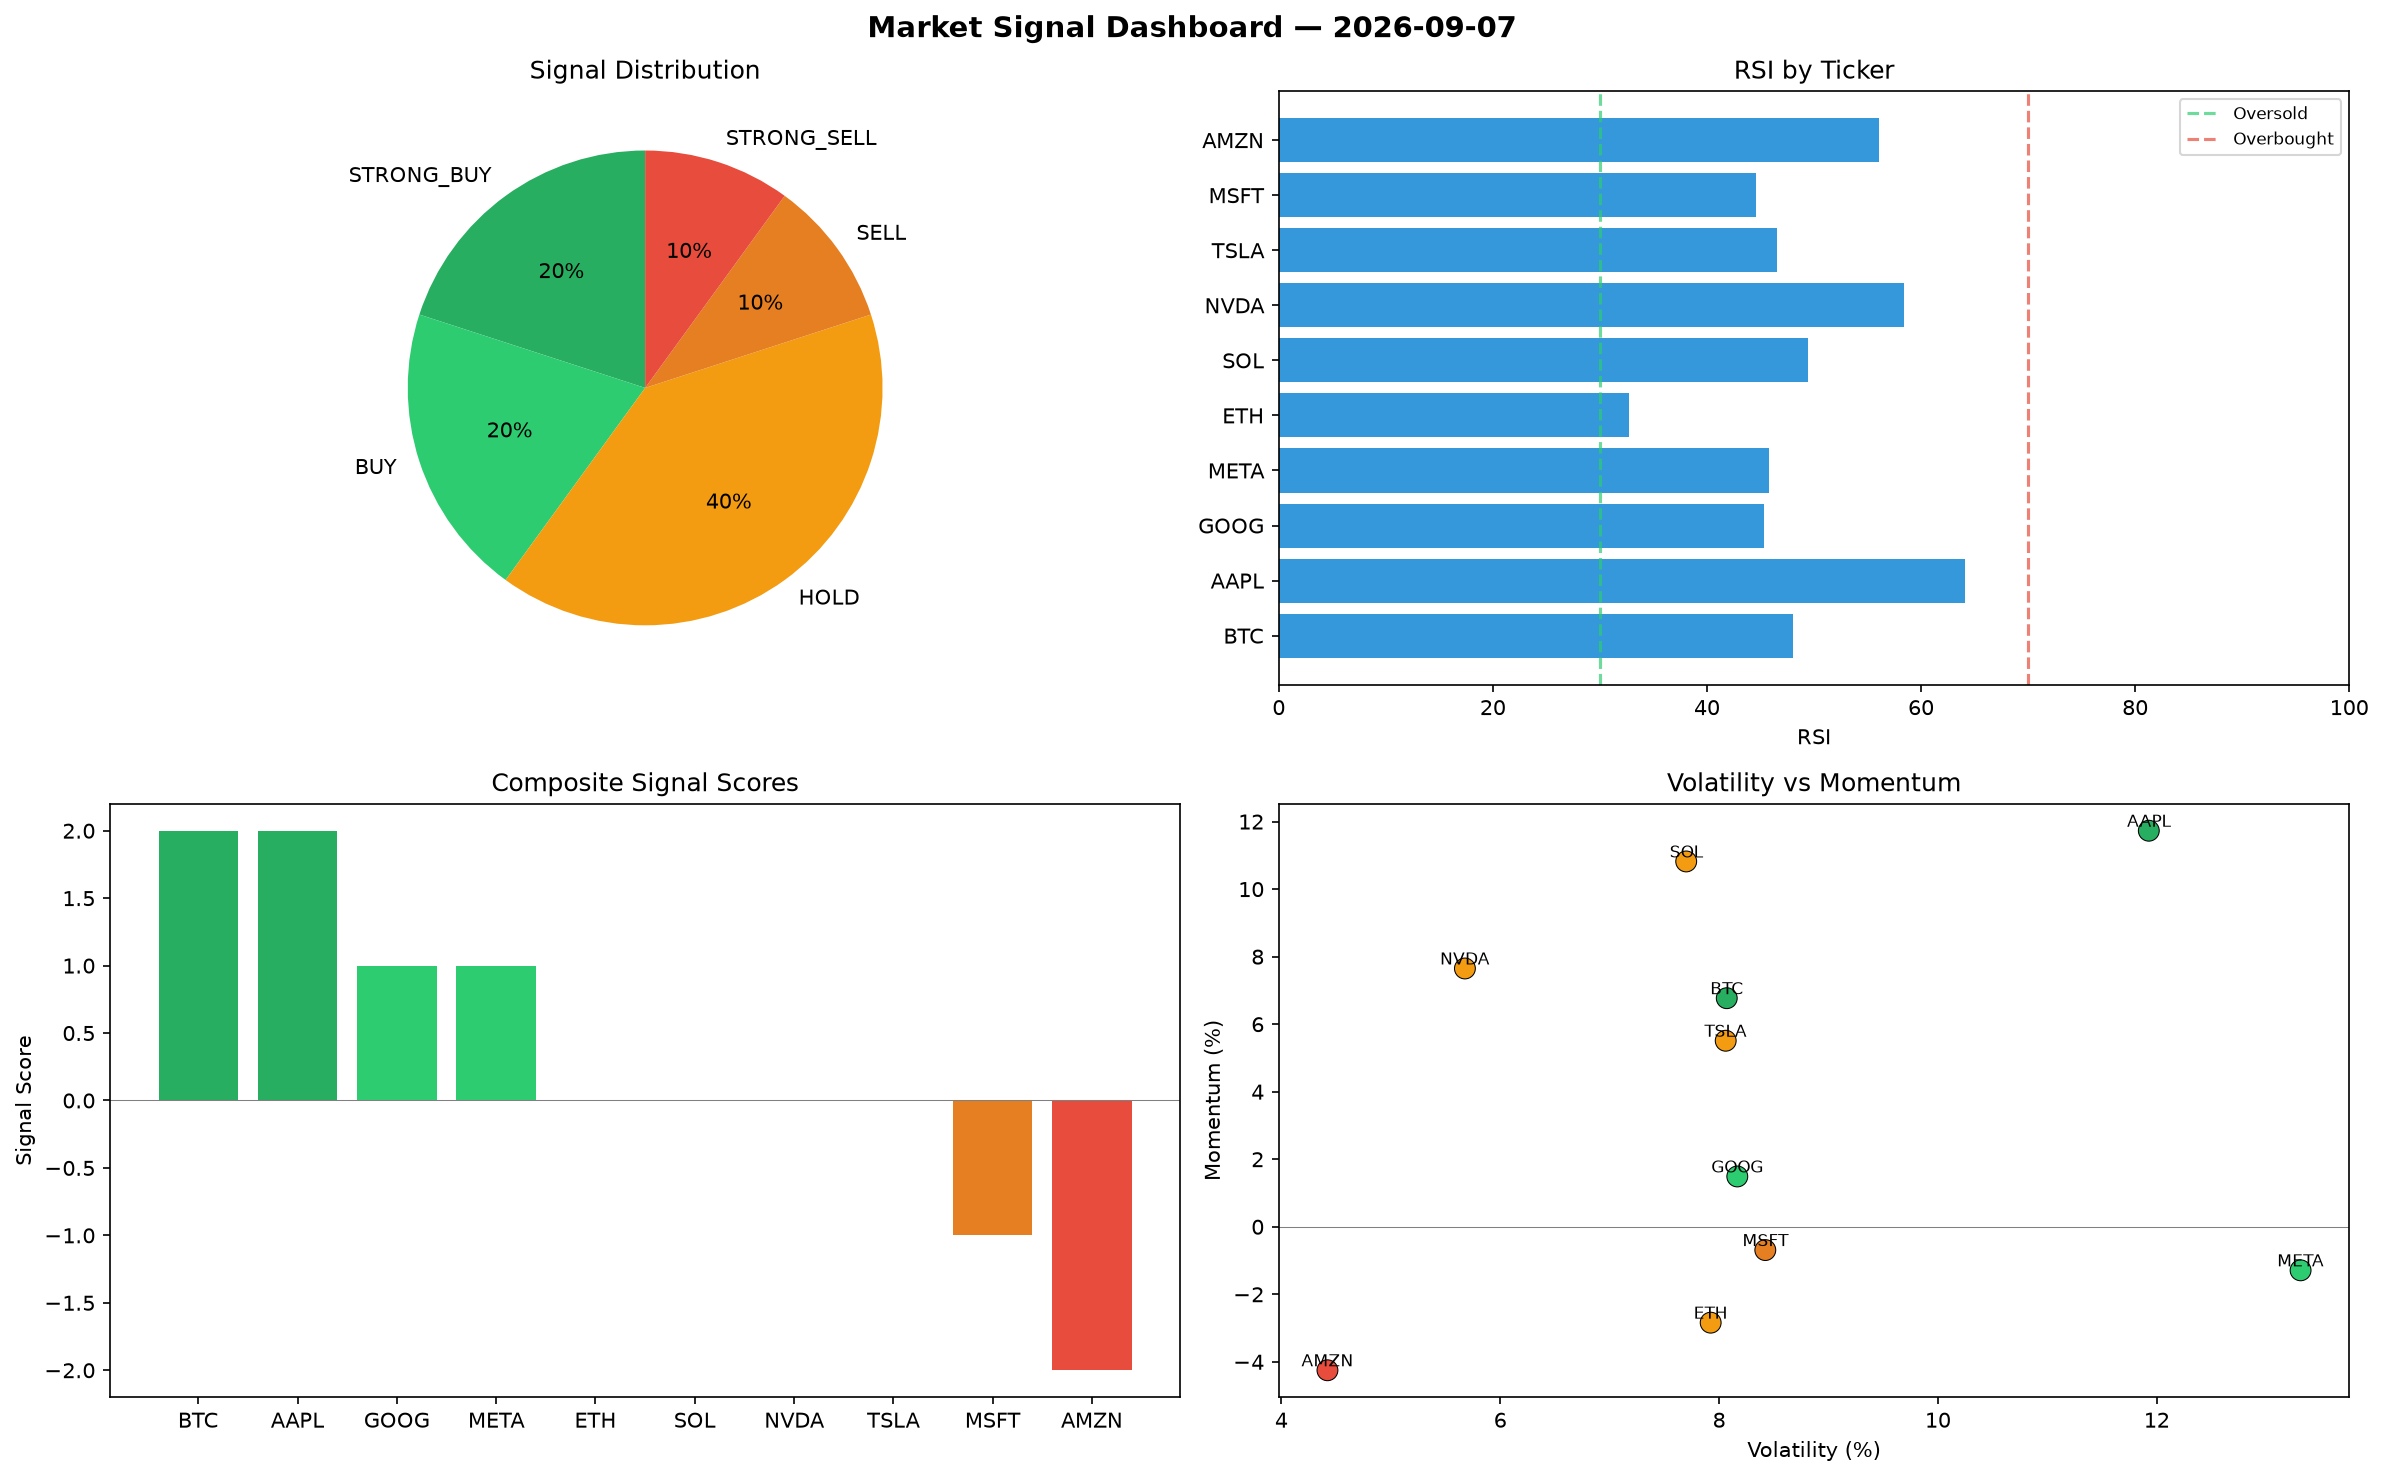
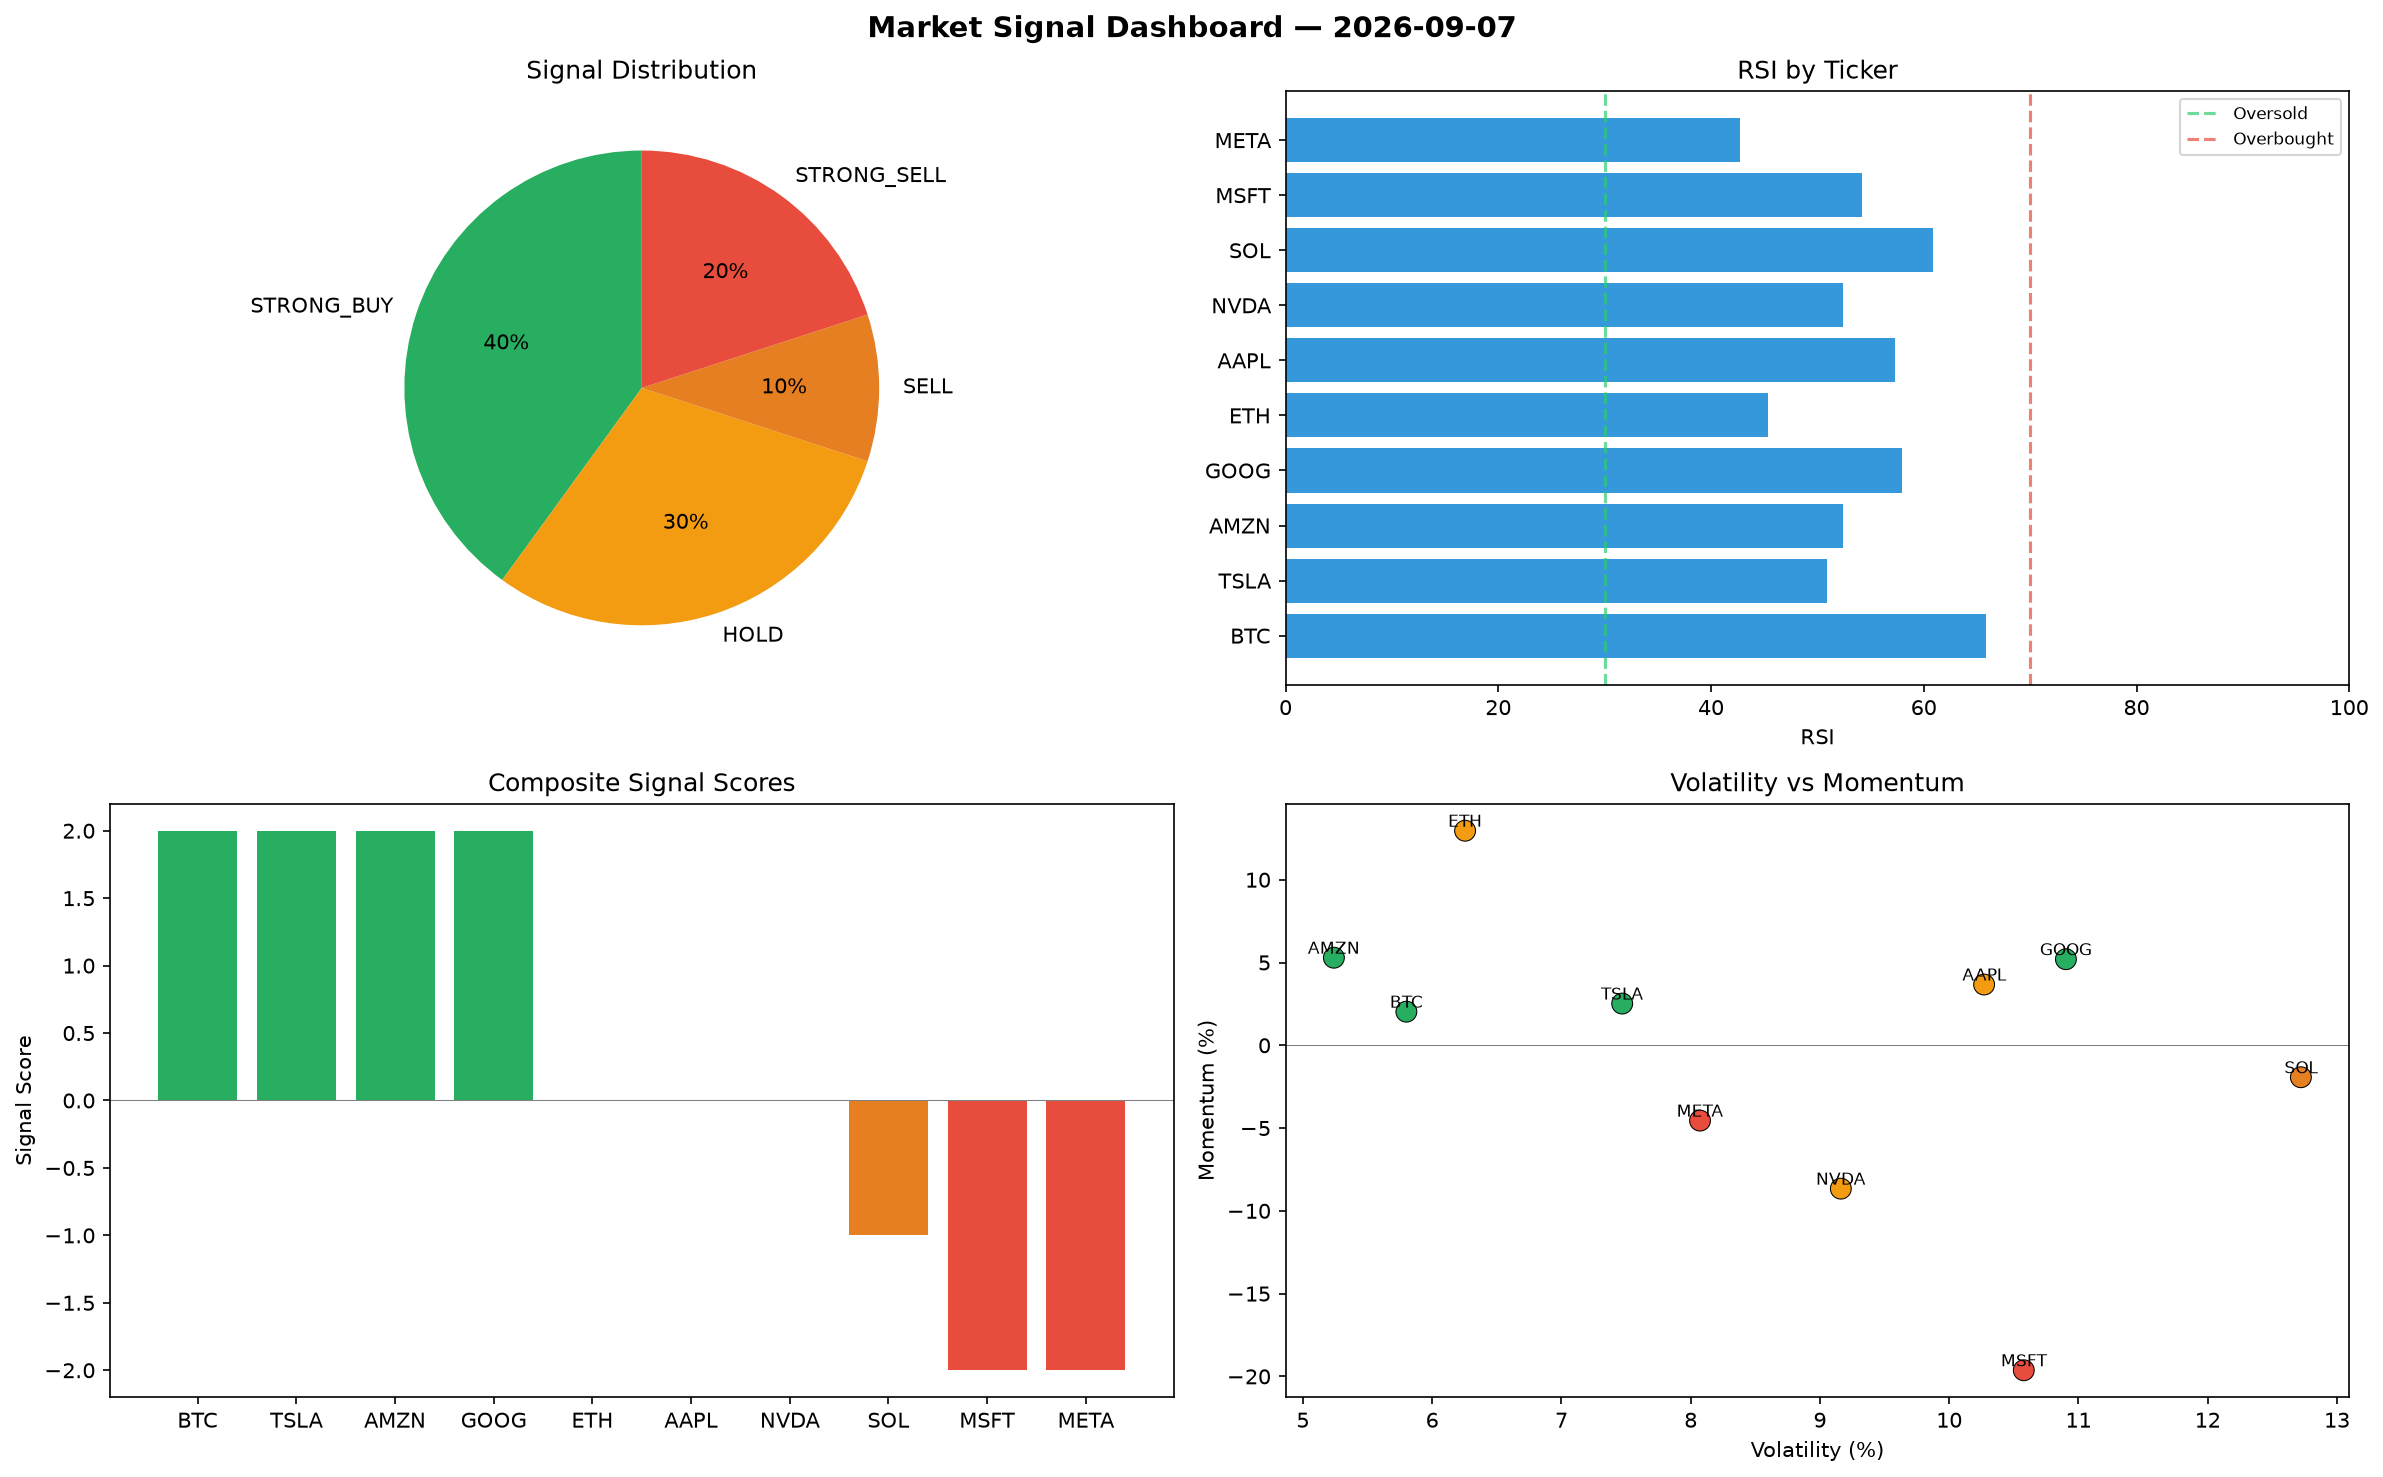
automated-bots: market signals 2026-09-07T22:53

diff --git a/logs/2026-09-07.md b/logs/2026-09-07.md
@@ -1,6 +1,6 @@
 # Market Signal Report — 2026-09-07
 
-**Run ID:** `a6f2ecbc55` | **Buy:** 4 | **Sell:** 2 | **Hold:** 4
+**Run ID:** `76d2f771c7` | **Buy:** 4 | **Sell:** 3 | **Hold:** 3
 
 ![Dashboard](2026-09-07_dashboard.png)
 
@@ -8,28 +8,28 @@
 
 | Ticker | Price | Signal | Score | RSI | Momentum | Confidence |
 |--------|-------|--------|-------|-----|----------|------------|
-| BTC | $3340.41 | **STRONG_BUY** | 2 | 47.99 | 0.0677 | 0.5 |
-| AAPL | $2640.27 | **STRONG_BUY** | 2 | 64.15 | 0.1173 | 0.5 |
-| GOOG | $3858.67 | **BUY** | 1 | 45.34 | 0.0149 | 0.25 |
-| META | $64.91 | **BUY** | 1 | 45.81 | -0.0129 | 0.25 |
-| ETH | $447.11 | **HOLD** | 0 | 32.72 | -0.0284 | 0.0 |
-| SOL | $2193.58 | **HOLD** | 0 | 49.47 | 0.1082 | 0.0 |
-| NVDA | $509.0 | **HOLD** | 0 | 58.42 | 0.0765 | 0.0 |
-| TSLA | $2292.81 | **HOLD** | 0 | 46.51 | 0.0551 | 0.0 |
-| MSFT | $3339.28 | **SELL** | -1 | 44.56 | -0.0069 | 0.25 |
-| AMZN | $754.79 | **STRONG_SELL** | -2 | 56.11 | -0.0425 | 0.5 |
+| BTC | $3057.52 | **STRONG_BUY** | 2 | 65.85 | 0.0203 | 0.5 |
+| TSLA | $4476.32 | **STRONG_BUY** | 2 | 50.94 | 0.0252 | 0.5 |
+| AMZN | $4200.95 | **STRONG_BUY** | 2 | 52.36 | 0.0529 | 0.5 |
+| GOOG | $3782.5 | **STRONG_BUY** | 2 | 57.97 | 0.052 | 0.5 |
+| ETH | $5118.06 | **HOLD** | 0 | 45.36 | 0.1296 | 0.0 |
+| AAPL | $4153.27 | **HOLD** | 0 | 57.29 | 0.0367 | 0.0 |
+| NVDA | $2913.42 | **HOLD** | 0 | 52.39 | -0.0866 | 0.0 |
+| SOL | $1111.79 | **SELL** | -1 | 60.84 | -0.0193 | 0.25 |
+| MSFT | $2334.07 | **STRONG_SELL** | -2 | 54.15 | -0.1963 | 0.5 |
+| META | $5045.54 | **STRONG_SELL** | -2 | 42.68 | -0.0455 | 0.5 |
 
 ## Delta vs Yesterday
 
 | Ticker | Today | Yesterday | Price Change | Signal Changed |
 |--------|-------|-----------|-------------|----------------|
-| BTC | STRONG_BUY | HOLD | 📈 272.49% | ⚠ YES |
-| AAPL | STRONG_BUY | BUY | 📈 44.06% | ⚠ YES |
-| GOOG | BUY | SELL | 📈 1745.19% | ⚠ YES |
-| META | BUY | STRONG_BUY | 📉 -98.83% | ⚠ YES |
-| ETH | HOLD | STRONG_SELL | 📉 -5.55% | ⚠ YES |
-| SOL | HOLD | HOLD | 📈 248.41% | — |
-| NVDA | HOLD | BUY | 📉 -88.97% | ⚠ YES |
-| TSLA | HOLD | STRONG_BUY | 📈 15.98% | ⚠ YES |
-| MSFT | SELL | BUY | 📈 130.14% | ⚠ YES |
-| AMZN | STRONG_SELL | HOLD | 📉 -65.71% | ⚠ YES |
+| BTC | STRONG_BUY | HOLD | 📈 240.94% | ⚠ YES |
+| TSLA | STRONG_BUY | STRONG_BUY | 📈 126.44% | — |
+| AMZN | STRONG_BUY | HOLD | 📈 90.83% | ⚠ YES |
+| GOOG | STRONG_BUY | SELL | 📈 1708.77% | ⚠ YES |
+| ETH | HOLD | STRONG_SELL | 📈 981.22% | ⚠ YES |
+| AAPL | HOLD | BUY | 📈 126.62% | ⚠ YES |
+| NVDA | HOLD | BUY | 📉 -36.85% | ⚠ YES |
+| SOL | SELL | HOLD | 📈 76.59% | ⚠ YES |
+| MSFT | STRONG_SELL | BUY | 📈 60.86% | ⚠ YES |
+| META | STRONG_SELL | STRONG_BUY | 📉 -9.18% | ⚠ YES |
